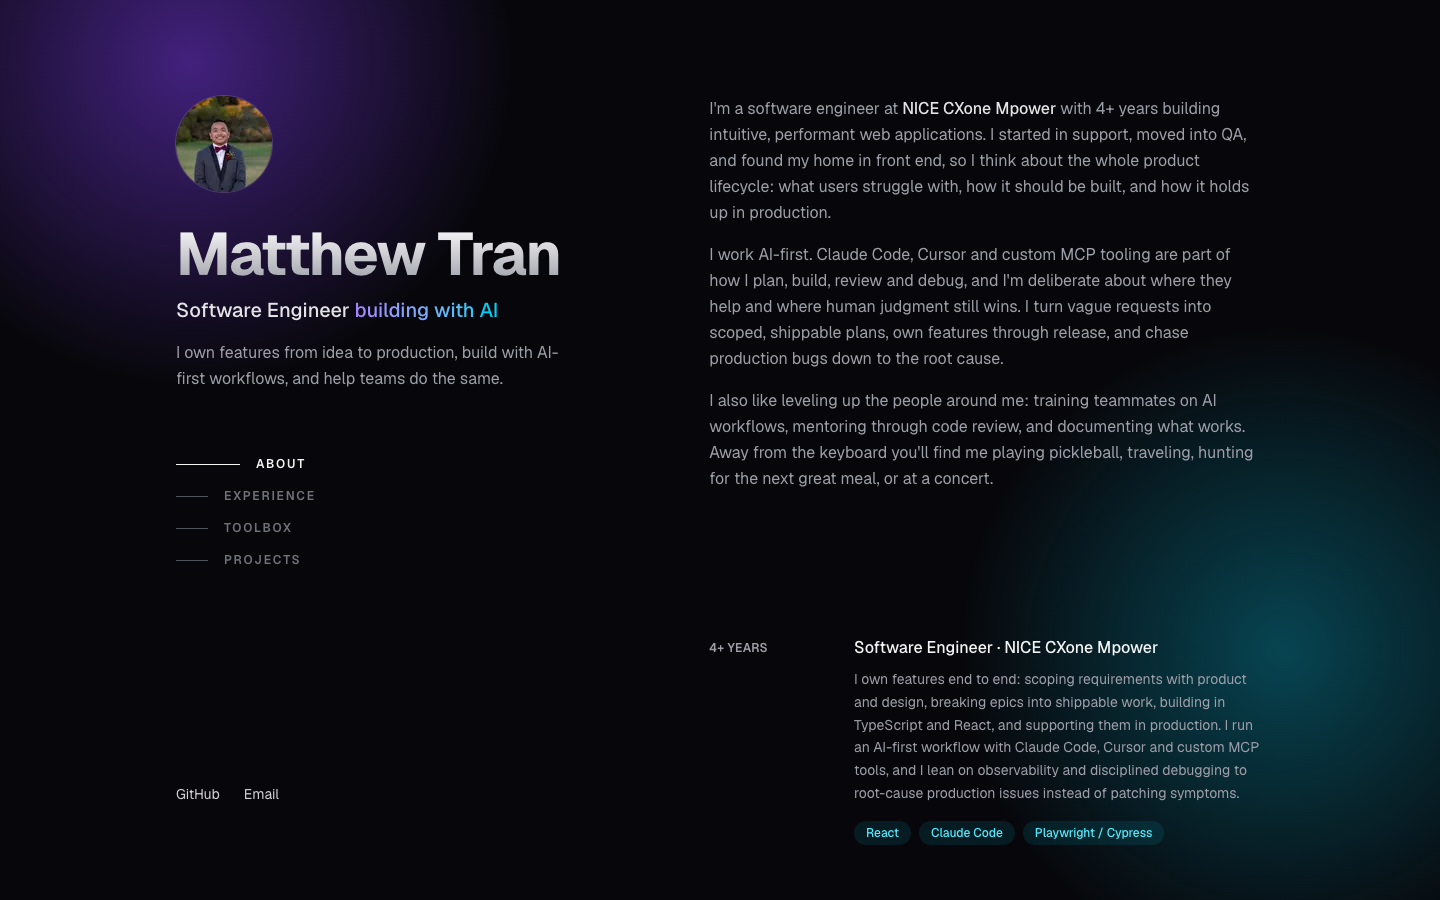
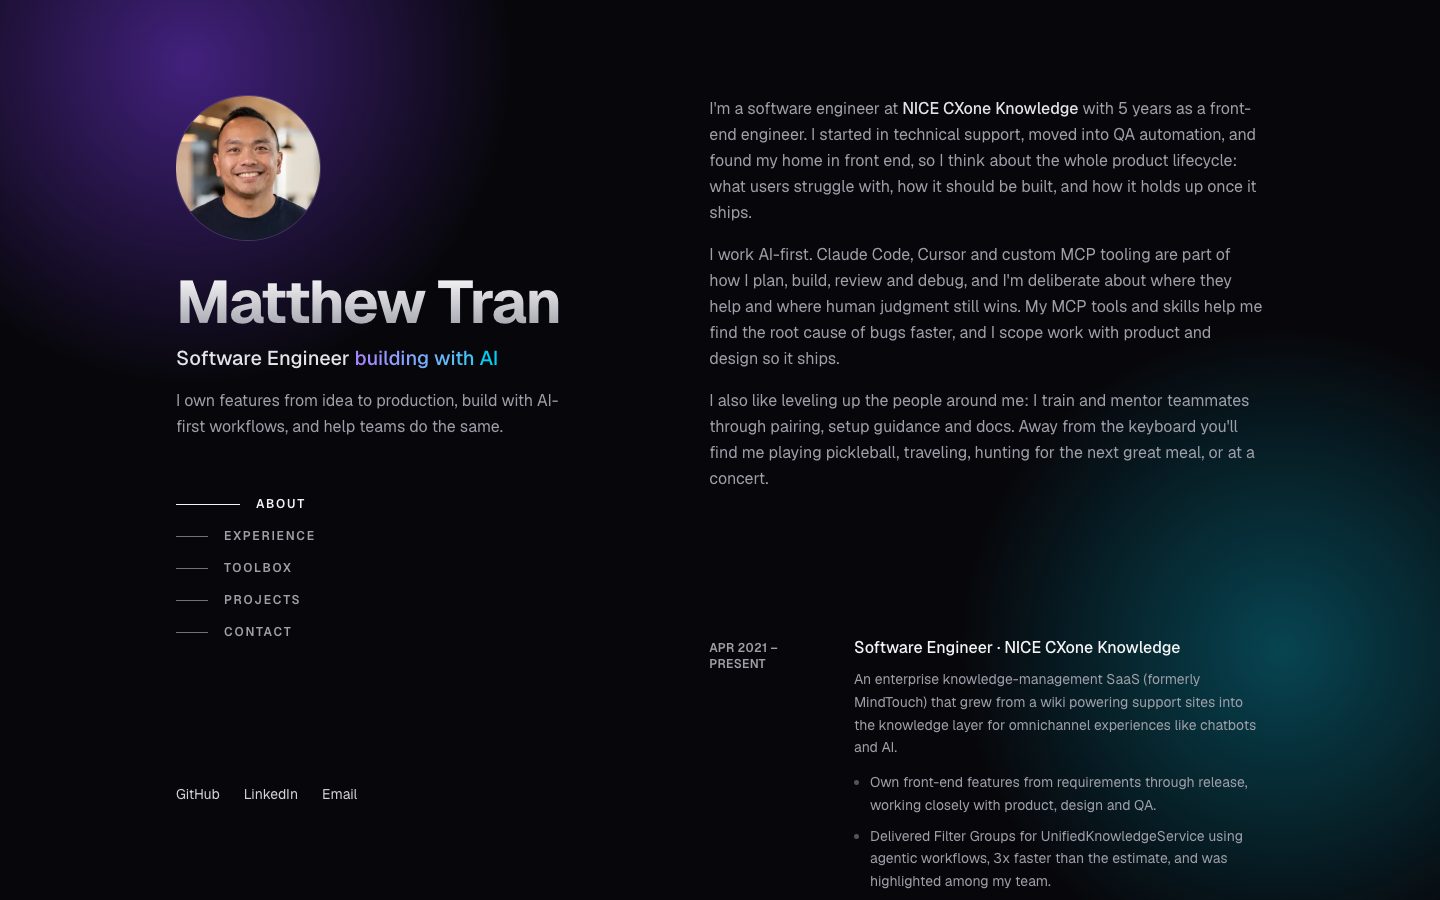
update profile photo

diff --git a/src/app/page.tsx b/src/app/page.tsx
@@ -51,14 +51,14 @@ export default function Home() {
 
       <div className="relative mx-auto max-w-screen-xl px-6 md:px-12 lg:flex lg:justify-between lg:gap-16 lg:px-24">
         {/* Left column */}
-        <header className="lg:sticky lg:top-0 lg:flex lg:h-dvh lg:w-[44%] lg:flex-col lg:justify-between lg:overflow-y-auto lg:py-24">
+        <header className="lg:sticky lg:top-0 lg:flex lg:h-dvh lg:w-[44%] lg:flex-col lg:justify-between lg:gap-10 lg:overflow-y-auto lg:py-24">
           <div className="pt-16 lg:pt-0">
             <Image
-              src="/matthew-profile.jpeg"
+              src="/profile.jpeg"
               alt="Portrait of Matthew Tran"
-              width={96}
-              height={96}
-              className="mb-8 h-24 w-24 rounded-full object-cover object-top ring-1 ring-white/15"
+              width={144}
+              height={144}
+              className="mb-8 h-32 w-32 rounded-full lg:h-36 lg:w-36 object-cover object-top ring-1 ring-white/15"
               priority
             />
             <h1 className="bg-gradient-to-b from-white to-zinc-400 bg-clip-text text-5xl font-bold tracking-tight text-transparent sm:text-6xl">
@@ -77,7 +77,7 @@ export default function Home() {
             <ScrollNav />
           </div>
 
-          <ul className="mt-10 flex items-center gap-6 text-sm text-zinc-300 lg:mt-0">
+          <ul className="mt-10 flex items-center gap-6 text-sm text-zinc-300 lg:mt-0 lg:shrink-0">
             <li>
               <a href={profile.github} className={link}>GitHub</a>
             </li>
